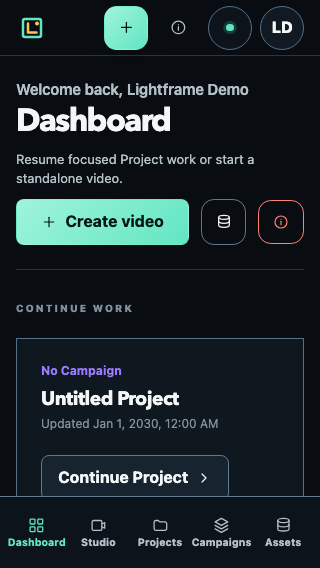
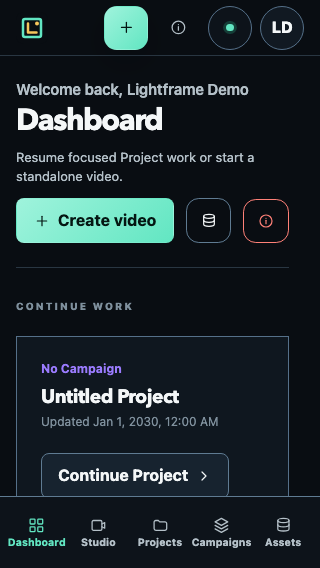
test(visual): reconcile responsive rendering

diff --git a/e2e/app-routing.spec.ts b/e2e/app-routing.spec.ts
@@ -279,12 +279,33 @@ test('Assets matches the responsive design matrix without clipping controls', as
     expect(tabsBox).not.toBeNull();
     expect(tabsBox!.x).toBeGreaterThanOrEqual(0);
     expect(tabsBox!.x + tabsBox!.width).toBeLessThanOrEqual(viewport.width + 1);
+    for (const tab of await tabs.getByRole('button').all()) {
+      await tab.scrollIntoViewIfNeeded();
+      const tabBox = await tab.boundingBox();
+      expect(tabBox).not.toBeNull();
+      expect(tabBox!.x).toBeGreaterThanOrEqual(tabsBox!.x - 1);
+      expect(tabBox!.x + tabBox!.width).toBeLessThanOrEqual(tabsBox!.x + tabsBox!.width + 1);
+    }
+    await tabs.evaluate((element) => {
+      element.scrollLeft = 0;
+    });
 
     const search = dialog.getByRole('searchbox', { name: 'Search videos by title' });
     await search.fill('Legacy');
     await dialog.getByRole('button', { name: 'Clear search' }).click();
     await expect(search).toHaveValue('');
     await expect(dialog.getByRole('button', { name: 'Clear search' })).toHaveCount(0);
+
+    const [cardBox, downloadBox, cardMenuBox] = await Promise.all([
+      dialog.locator('article').filter({ hasText: 'Legacy unassigned' }).boundingBox(),
+      dialog.getByRole('link', { name: 'Download Legacy unassigned' }).boundingBox(),
+      dialog.getByRole('button', { name: 'More actions for Legacy unassigned' }).boundingBox(),
+    ]);
+    for (const box of [cardBox, downloadBox, cardMenuBox]) {
+      expect(box).not.toBeNull();
+      expect(box!.x).toBeGreaterThanOrEqual(0);
+      expect(box!.x + box!.width).toBeLessThanOrEqual(viewport.width + 1);
+    }
 
     const mobileFilters = dialog.getByRole('button', { name: 'Filters', exact: true });
     if (viewport.width >= 1_024) {
@@ -305,21 +326,29 @@ test('Assets matches the responsive design matrix without clipping controls', as
     const filters = page.getByRole('dialog', { name: 'Filters' });
     const clear = filters.getByRole('button', { name: 'Clear filters' });
     const show = filters.getByRole('button', { name: 'Show 1 video' });
+    const character = filters.getByRole('combobox', { name: 'Character used' });
+    const format = filters.getByRole('combobox', { name: 'Video format' });
     const sort = filters.getByRole('combobox', { name: 'Sort by' });
     const footer = filters.locator('[data-filter-sheet-actions]').locator('..');
-    const [clearBox, showBox, sortBox, footerBox] = await Promise.all([
+    const [clearBox, showBox, characterBox, formatBox, sortBox, footerBox] = await Promise.all([
       clear.boundingBox(),
       show.boundingBox(),
+      character.boundingBox(),
+      format.boundingBox(),
       sort.boundingBox(),
       footer.boundingBox(),
     ]);
     expect(clearBox).not.toBeNull();
     expect(showBox).not.toBeNull();
+    expect(characterBox).not.toBeNull();
+    expect(formatBox).not.toBeNull();
     expect(sortBox).not.toBeNull();
     expect(footerBox).not.toBeNull();
     expect(Math.abs(clearBox!.y - showBox!.y)).toBeLessThanOrEqual(1);
-    expect(clearBox!.x).toBeGreaterThanOrEqual(0);
-    expect(showBox!.x + showBox!.width).toBeLessThanOrEqual(viewport.width + 1);
+    for (const box of [clearBox, showBox, characterBox, formatBox, sortBox]) {
+      expect(box!.x).toBeGreaterThanOrEqual(0);
+      expect(box!.x + box!.width).toBeLessThanOrEqual(viewport.width + 1);
+    }
     expect(sortBox!.y + sortBox!.height).toBeLessThanOrEqual(footerBox!.y + 1);
     await show.click();
     await expect(filters).toHaveCount(0);

diff --git a/docs/LightFrameUXImplementationPlan.md b/docs/LightFrameUXImplementationPlan.md
@@ -972,14 +972,17 @@ recovery notice now owns a bounded row above the active surface, so its controls
 without covering the Dashboard masthead, header popovers, or fixed mobile navigation.
 
 **Validated** focused Dashboard suites **11/11**; full repository `bun run quality` (**262** files
-passed, **4** skipped; **2,014** tests passed, **9** skipped); built-production smoke **1/1**;
+passed, **4** skipped; **2,014** tests passed, **9** skipped); built-production smoke **1/1**; and
 functional browser journeys **86/86**, including returning, first-run and paused-sync Dashboard
-geometry, axe, overflow and 200%-text checks at 1440×960, 1280×720, 834×1112, 390×844 and 320×568; reviewed
-Dashboard visual cases **2/2** on Darwin and **2/2** on pinned Playwright Linux; and **100/100**
-curated platform baselines with zero missing or removable files. The complete Darwin visual sweep
-is **45/50**: five untouched Assets overview/filter baselines already disagree with their current
-rendering, so they were diagnosed on both reused and clean Vite servers and deliberately not
-regenerated as part of this Dashboard change.
+geometry, axe, overflow and 200%-text checks at 1440×960, 1280×720, 834×1112, 390×844 and 320×568.
+A follow-up clean-renderer reconciliation showed the five reported Assets failures were a reused
+renderer-state artifact: the shared page and overlay scroll regions reserve the same stable
+scrollbar gutter, and the existing Assets baselines already match that contract. The responsive
+Assets journey now also brings every scrollable library tab fully into view and bounds the video
+card, Download/menu actions, every filter field and the sheet footer at all five canonical widths.
+The two anomalous Darwin Dashboard captures were re-recorded with that shared gutter honoured.
+The complete Darwin visual sweep is **50/50**, pinned Playwright Linux Dashboard + Assets is
+**10/10**, and the curated inventory remains **100/100** platform baselines.
 
 ## ~~21. Keep AI tools available below 64rem~~ · DONE
 
